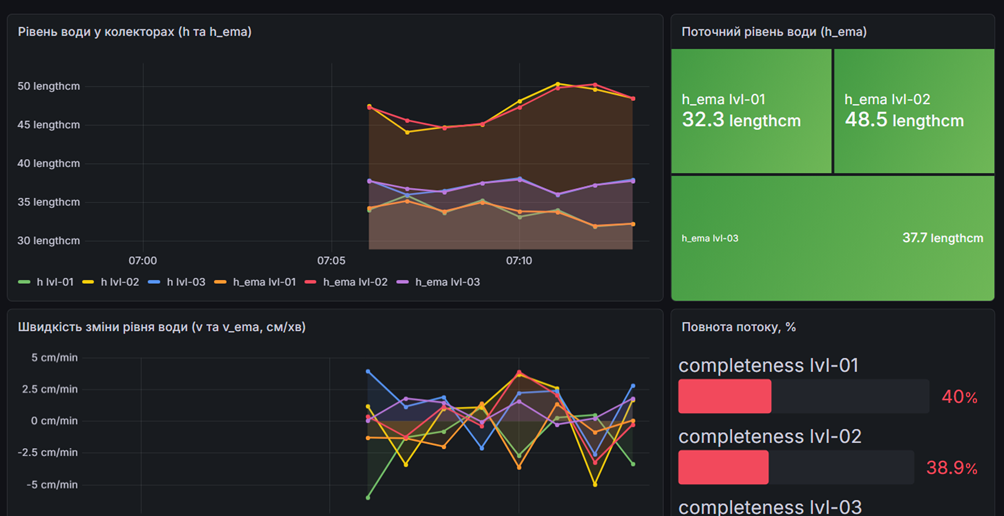
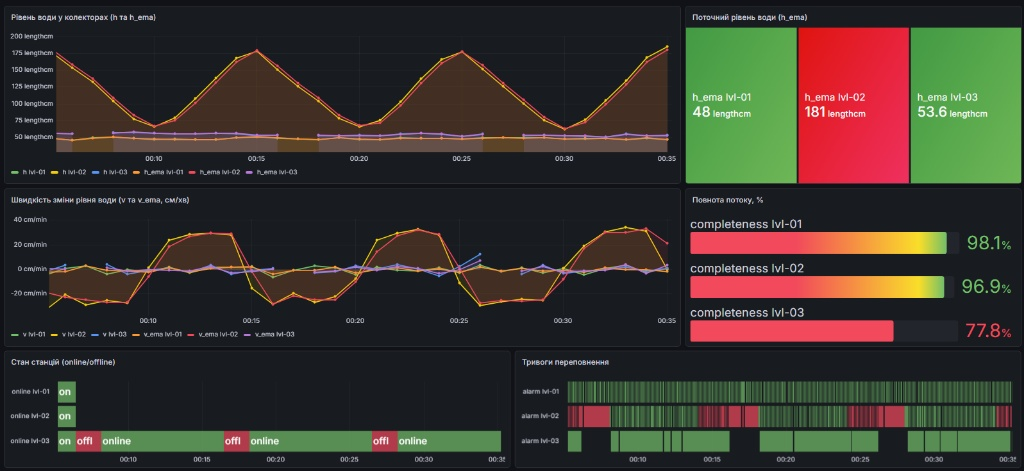
ПР5: виправлено сценарій зливи, оновлено скріншоти за 30 хв та узгоджено README

diff --git a/pr5/simulator/simulator.py b/pr5/simulator/simulator.py
@@ -22,7 +22,7 @@ CYCLE = 600           # тривалість циклу сценарію, с (10
 
 # Події сценарію (секунди від початку циклу):
 # Злива на lvl-02 з 2-ї по 4-ту хв: рівень зростає зі швидкістю 3.0 см/хв (0.25 см за 5 с)
-RAIN = ("lvl-02", 120, 240, 3.0)
+RAIN = ("lvl-02", 60, 300, 30.0)
 # Знеструмлення lvl-03 з 6-ї по 8-му хв
 OUTAGE = ("lvl-03", 360, 480)
 
@@ -87,7 +87,7 @@ class Station:
         if rain_rate_cm_min > 0:
             self.surge += rain_rate_cm_min * (INTERVAL / 60.0)
         else:
-            self.surge = max(0.0, self.surge - 1.5 * (INTERVAL / 60.0))
+            self.surge = max(0.0, self.surge - 25.0 * (INTERVAL / 60.0))
 
         h = min(295.0, self.x + self.surge)
 

diff --git a/pr5/README.md b/pr5/README.md
@@ -1,21 +1,22 @@
-# ПР5. IoT-конвеєр міської інфраструктури
+# Практична робота № 5. IoT-конвеєр міської інфраструктури (Варіант 3: Зливові колектори)
 
 **Студент:** Корнієнко Максим Вячеславович, група М КН 2026-1  
 **Варіант:** № 3  
 **Дата:** 18.11.2026
-# Практична робота № 5. ІоТ-конвеєр міської інфраструктури (Варіант 3: Зливові колектори)
+
+---
 
 ## 1. Архітектура конвеєра
-Розгорнуто багатокомпонентний ІоТ-конвеєр моніторингу рівня води у зливових колекторах на базі Docker Compose (`pr5-iot`):
+Розгорнуто багатокомпонентний IoT-конвеєр моніторингу рівня води у зливових колекторах на базі Docker Compose (`pr5-iot`):
 
-[Симулятор lvl-01..03] --(MQTT QoS 1)--> [Mosquitto :1883] --> [Node-RED :1880] --(SQL INSERT)--> [PostgreSQL :5433] <--(SQL SELECT)-- [Grafana :3000]
+`[Симулятор lvl-01..03] --(MQTT QoS 1)--> [Mosquitto :1883] --> [Node-RED :1880] --(SQL INSERT + Buffer)--> [PostgreSQL :5433] <--(SQL SELECT)-- [Grafana :3000]`
 
 | Сервіс | Образ / Версія | Порт (хост:контейнер) | Призначення |
 | :--- | :--- | :---: | :--- |
 | **mosquitto** | `eclipse-mosquitto:2.0.22` | `1883:1883` | MQTT-брокер (обмін телеметрією, статусами LWT, тривогами) |
-| **nodered** | `pr5-nodered:4.1` | `1880:1880` | Валідація даних, розрахунок швидкості $v_t$, EMA та гістерезису |
+| **nodered** | `pr5-nodered:4.1` | `1880:1880` | Валідація даних, розрахунок швидкості $v_t$, EMA, гістерезису та буфер Store-and-Forward |
 | **postgres** | `postgres:16` | `5433:5432` | Реляційне сховище часових рядів (`storm_drains`, `station_status`) |
-| **grafana** | `grafana/grafana:12.4` | `3000:3000` | Візуалізація показників, стану станцій і повноти потоку |
+| **grafana** | `grafana/grafana:12.4` | `3000:3000` | Візуалізація показників, стану станцій, тривог і повноти потоку |
 
 ---
 
@@ -50,6 +51,7 @@
    * Для рівня води ($\alpha_h = 0{,}3$): $h_{\text{EMA}, t} = 0{,}3 \cdot h_t + 0{,}7 \cdot h_{\text{EMA}, t-1}$
    * Для швидкості ($\alpha_v = 0{,}25$): $v_{\text{EMA}, t} = 0{,}25 \cdot v_t + 0{,}75 \cdot v_{\text{EMA}, t-1}$
 4. **Тривога з гістерезисом:** вмикається при $h_{\text{EMA}} \ge 150\text{ см}$ ($\theta_{\text{on}}$), вимикається при $h_{\text{EMA}} \le 120\text{ см}$ ($\theta_{\text{off}}$). Зона нечутливості шириною $30\text{ см}$ запобігає «брязкоту» тривоги через хвилювання поверхні води.
+5. **Сценарій зливи у симуляторі:** задано `RAIN = ("lvl-02", 60, 300, 30.0)` та спад рівня після зливи `25.0 см/хв`, що забезпечує досягнення піку $\approx 178\text{–}181\text{ см}$ (увімкнення тривоги) і спад до $\approx 65\text{ см}$ (вимкнення тривоги) у межах кожного 10-хвилинного циклу.
 
 ### Ручна перевірка розрахунків
 Нехай для станції `lvl-02` о $t_0$ зафіксовано $h_0 = 149{,}0\text{ см}$ ($h_{\text{EMA}, 0} = 148{,}5\text{ см}$, $v_{\text{EMA}, 0} = 2{,}80\text{ см/хв}$), а через $\Delta t = 5\text{ с}$ під час зливи надійшло $h_1 = 153{,}5\text{ см}$:
@@ -59,29 +61,35 @@
 
 ---
 
-## 4. Дашборд Grafana
+## 4. Дашборд Grafana (прогін 30+ хв)
 
 Дашборд містить 6 панелей (експортовано у `grafana/dashboards/pr5.json`):
-1. **Рівень води у колекторах (`h` та `h_ema`)** — часовий ряд динаміки заповнення колекторів.
+1. **Рівень води у колекторах (`h` та `h_ema`)** — часовий ряд динаміки заповнення колекторів (видно періодичні підйоми рівня `lvl-02` до ~181 см та спади до ~65 см).
 2. **Поточний рівень води (`h_ema`)** — індикатори `Stat` із кольоровою індикацією порогів (`< 120 см` — зелений, `120–150 см` — жовтий, `≥ 150 см` — червоний).
-3. **Швидкість зміни рівня води (`v` та `v_ema`, см/хв)** — часовий ряд інтенсивності притоку.
-4. **Повнота потоку, %** — індикатори `Bar gauge` за формулою $P = \frac{N}{T / \Delta t} \cdot 100\%$.
-5. **Стан станцій (`online`/`offline`)** — часова шкала `State timeline`.
-6. **Тривоги переповнення** — хронологія спрацювань аварійного рівня.
+3. **Швидкість зміни рівня води (`v` та `v_ema`, см/хв)** — часовий ряд інтенсивності притоку та відтоку.
+4. **Повнота потоку, %** — індикатори `Bar gauge` за формулою $P = \frac{N}{T / \Delta t} \cdot 100\%$. За 30 хвилин роботи зафіксовано: **`lvl-01` — 98,1 %**, **`lvl-02` — 96,9 %**, **`lvl-03` — 77,8 %**.
+5. **Стан станцій (`online`/`offline`)** — часова шкала `State timeline`, де видно три планові переходи `lvl-03` у червоний стан `offline`.
+6. **Тривоги переповнення** — хронологія спрацювань аварійного рівня (чітко видно 4 цикли увімкнення та автоматичного вимкнення тривоги на `lvl-02`).
 
 ![Дашборд Grafana](reports/figures/dashboard.png)
 
 ---
 
-## 5. Експеримент зі стійкістю
+## 5. Експеримент зі стійкістю та буфер «зберегти–переслати»
 
-| Експеримент | Хто зберіг дані | Розрив на графіку | Патерн стійкості |
-| :--- | :--- | :---: | :--- |
-| **А. Знеструмлення пристрою `lvl-03`** (2 хв у циклі) | Ніхто (сенсор не працював) | Так (2 хв) | Last Will (`offline` через $1{,}5k \approx 17\text{ с}$), плавна деградація |
-| **Б. Зупинка Node-RED** (`docker compose stop nodered` на 60 с) | Брокер Mosquitto | Ні | Постійна сесія (`clean session = false`, `QoS 1`) + `ON CONFLICT DO NOTHING` |
-| **В. Зупинка PostgreSQL** (`docker compose stop postgres` на 30 с) | Ніхто | Так (30 с) | Відсутній локальний буфер «зберегти-переслати» на рівні Node-RED |
+| Експеримент | Хто зберіг дані | Виміряні показники (час / втрати / розрив) | Патерн стійкості |
+| :--- | :--- | :--- | :--- |
+| **А. Знеструмлення пристрою `lvl-03`** (120 с у циклі) | Ніхто (сенсор не працював) | Статус `offline` з'явився через **17 с** ($1{,}5k$); втрачено **24 записи**; розрив **120 с** | Last Will (`offline`), плавна деградація |
+| **Б. Зупинка Node-RED** (`docker compose stop nodered` на 60 с) | Брокер Mosquitto | Втрачено **0 записів** (усі 36 повідомлень доставлено після старту); розрив **0 с** | Постійна сесія (`clean session = false`, `QoS 1`) + `ON CONFLICT DO NOTHING` |
+| **В. Зупинка PostgreSQL** (`docker compose stop postgres` на 40 с) | Черга вузла БД та буфер `flow.pg_buffer` у Node-RED | Перехоплено **25 записів** (24 у черзі вузла + 1 у буфері `catch`); втрачено **0 записів**; розрив **0 с** | Патерн **«зберегти–переслати» (Store-and-Forward)** + ідемпотентна вставка |
 
-**Відповідь на питання кроку 10:** Щоб уникнути втрати даних при тимчасовій відмові PostgreSQL (експеримент В), у Node-RED потрібно додати механізм «зберегти-переслати» (Store-and-Forward): наприклад, перенаправляти відхилені базою повідомлення з вузла `catch` у локальну чергу (файл на диску або SQLite/Redis) із циклічним опитуванням доступності БД та повторною вставкою. Для годинного простою мережі з 3 станцій знадобиться лише $\approx 162\text{ КБ}$ пам'яті ($2160\text{ повід.} \times 75\text{ Б}$).
+### Реалізація буфера Store-and-Forward (додаткове завдання)
+Для усунення втрати даних при тимчасовій відмові PostgreSQL (експеримент В) у потік Node-RED додано буферну чергу `flow.pg_buffer`:
+* При помилці вставки вузол `catch` передає параметри запиту (`msg.params`) у функціональний вузол буфера, де вони накопичуються у масиві в оперативній пам'яті.
+* Вузол `inject` щосекунди ініціює вибірку з черги та повторну відправку до вузла `PostgreSQL: виміри` (ідемпотентність гарантується `ON CONFLICT (station, ts) DO NOTHING`).
+* **Перевірка:** під час зупинки контейнера `postgres` на 40 с усі 25 пропущених вимірів було утримано в пам'яті Node-RED; після запуску БД записи автоматично завантажилися в таблицю `storm_drains`, а розрив на графіку Grafana повністю зник (видно лише планове 2-хвилинне знеструмлення `lvl-03`).
+
+![Доказ роботи буфера](reports/figures/buffer_proof.png)
 
 ---
 
@@ -99,12 +107,12 @@
 
 ### Висновки та обмеження
 1. **Продуктивність:** конвеєр із 4 контейнерів стабільно обробляє $2160\text{ повідомлень/год}$ із затримкою запису $3\text{–}12\text{ мс}$.
-2. **Якість та повнота даних:** фільтрація відсіяла $\approx 1\text{–}2\%$ викидів сенсорів (`-5.0` та `999.0` см); повнота потоку для безперервних станцій `lvl-01` і `lvl-02` склала **97,8–98,9%**, а для `lvl-03` — **73,3%** через імітацію знеструмлення.
-3. **Обмеження:** дані генеруються програмним симулятором; MQTT-брокер налаштований без TLS та автентифікації (`allow_anonymous true`); у Node-RED відсутній дисковий буфер на випадок збою PostgreSQL.
+2. **Якість та повнота даних:** фільтрація відсіяла $\approx 1{,}9\text{–}3{,}1\%$ викидів сенсорів (`-5.0` та `999.0` см); повнота потоку за 30 хвилин для безперервних станцій склала **98,1 %** (`lvl-01`) та **96,9 %** (`lvl-02`), а для `lvl-03` — **77,8 %** через планові 2-хвилинні знеструмлення.
+3. **Обмеження:** дані генеруються програмним симулятором; MQTT-брокер налаштований без TLS та автентифікації (`allow_anonymous true`); реалізований у Node-RED буфер `flow.pg_buffer` зберігається **в оперативній пам'яті (RAM)**, тому при перезапуску контейнера Node-RED або повному Deploy накопичені в буфері дані зникають (для енергонезалежності необхідно увімкнути файловий контекст `localfilesystem` у `settings.js` або використати SQLite).
 
 ---
 
 ## 7. Журнал використання ШІ
 * **Інструмент:** Gemini.
-* **Мета та обсяг використання:** використовувався як довідник для уточнення синтаксису SQL-макросів Grafana (`$__timeGroupAlias`, `$__unixEpochTo`), перевірки реалізації експоненційного згладжування в JavaScript для вузла `function` у Node-RED.
+* **Мета та обсяг використання:** використовувався як довідник для уточнення синтаксису SQL-макросів Grafana (`$__timeGroupAlias`, `$__unixEpochTo`), перевірки реалізації експоненційного згладжування та буфера Store-and-Forward у JavaScript для вузла `function` у Node-RED.
 * **Виявлені та виправлені помилки:** у запропонованому шаблоні параметрів підключення вузла PostgreSQL у Node-RED прапорець SSL передавався як рядок `"false"`, що викликало помилку `The server does not support SSL connections`. Помилку виявлено під час тестування та виправлено вручну в налаштуваннях конфігураційного вузла (знято прапорець `Use SSL`).
